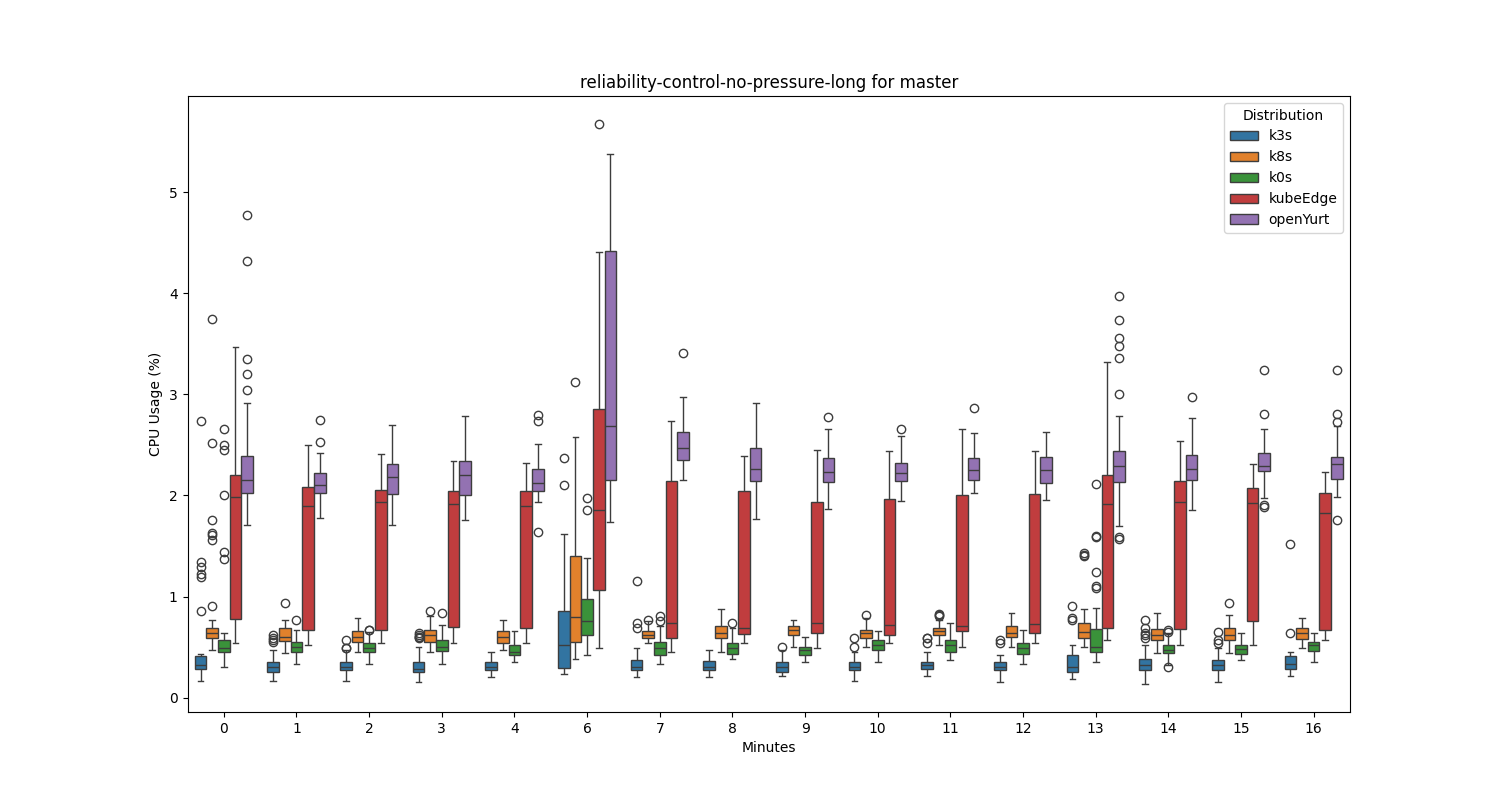
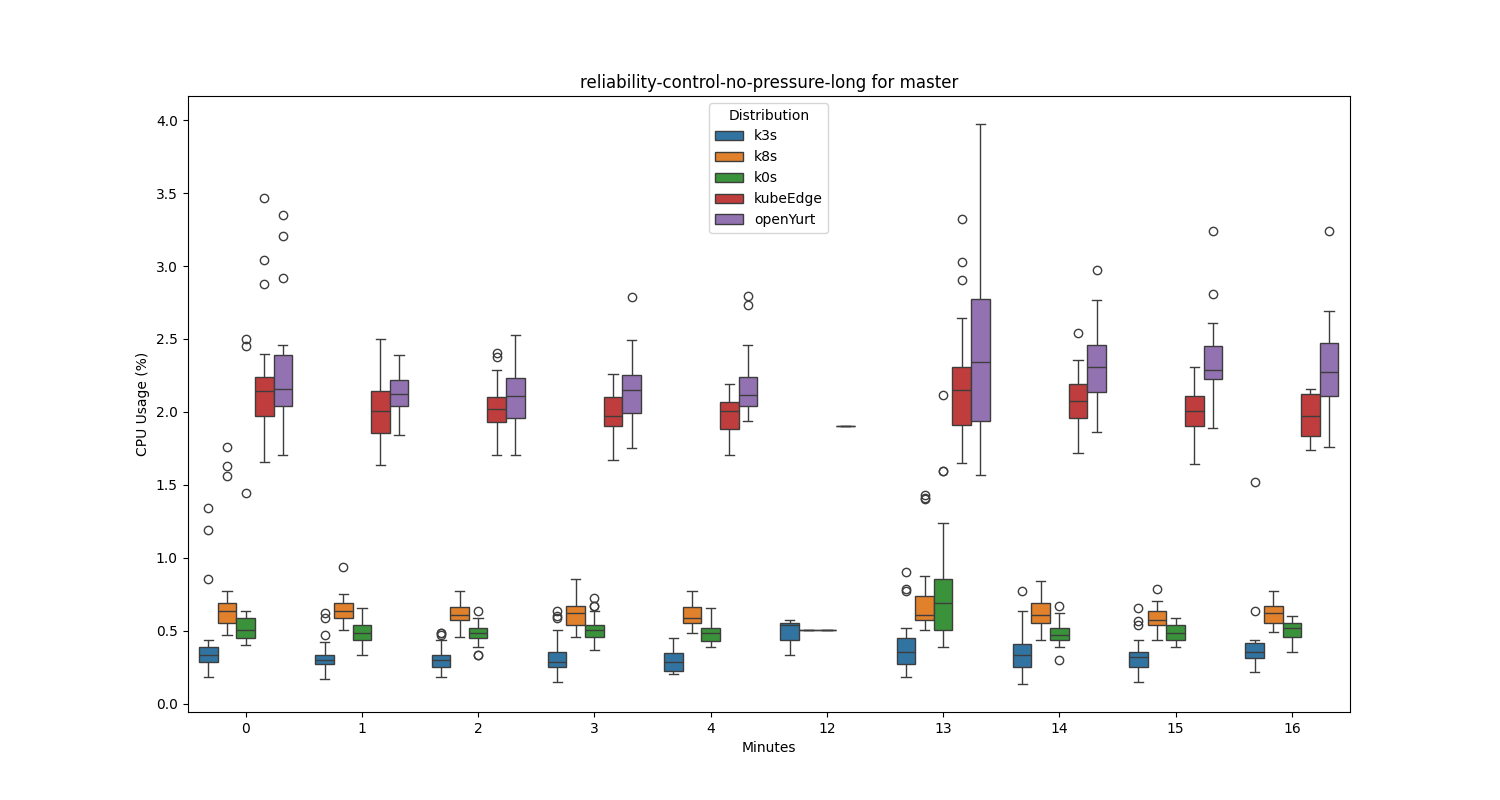
reliability-control | box with fliers

diff --git a/src/utils/box-plotting.py b/src/utils/box-plotting.py
@@ -145,7 +145,7 @@ def create_plots(files, title, xlabel, ylabel, toSave=False, plot_type='scatter'
         all_data.append(data)
 
     if plot_type == 'box':
-        box_plotting(all_data, title, xlabel, ylabel, toSave, unit, showfliers=False)
+        box_plotting(all_data, title, xlabel, ylabel, toSave, unit, showfliers=True)
     elif plot_type == 'line':
         line_plotting(all_data, title, xlabel, ylabel, toSave, unit)
     else:
